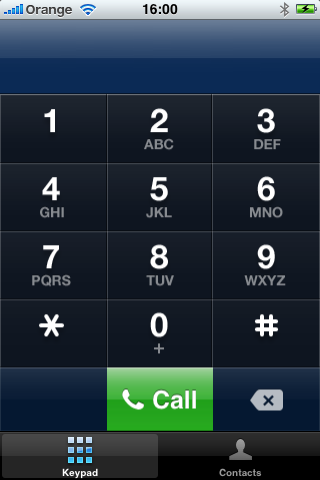
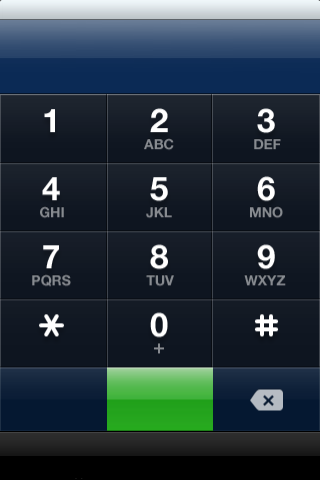
Updated Default.png to act more like the real thing.

diff --git a/README.md b/README.md
@@ -5,20 +5,21 @@ iPhone Keypad
 **Authors:** Craig Patchett, Adrian Kosmaczewski<br/>
 **Date:** February 10, 2010<br/>
 **Programming Languages:** Objective-C<br/>
-**Tools:** Xcode 4.2<br/>
-**Platforms:** Mac OS X Lion 10.7.3, iPhone OS 5.0+<br/>
-**Repository:** Github<br/>
+**Tools:** Xcode 4.2.1<br/>
+**Platforms:** Mac OS X Lion 10.7.3, iPhone OS 5+<br/>
+**Repository:** GitHub<br/>
 **License:** None, public domain, whatever you want :)
 
-This project is a significant update of Adrian Kosmaczewski's original implementation, both of which feature a keypad taken bit by bit from the one supplied in the iPhone. As Adrian put it: "Pure copyright infringement? Not really, simply another form of flattery."
+This project is a significant update of Adrian Kosmaczewski's original implementation, both of which feature a phone keypad taken bit by bit from the one supplied in the iPhone. As Adrian put it: "Pure copyright infringement? Not really, simply another form of flattery."
 
 This version has been rewritten for XCode 4.2 and iOS 5 with the following changes:
 
 * Storyboard replaces NIBs
 * Retina support added
-* Basic phone number formatting added (hardwired to U.S. at the moment, sorry)
+* Basic phone number formatting added (hardwired for the U.S. at the moment, sorry)
 * Tab bar icons replaced with Glyphish icons
 * Custom app icon
+* Migrated to ARC
 * Code streamlined
 
 I'm still going through a learning curve with iOS development, and this was done more as an exercise than anything else. As such, it has a couple of glitches at the moment, the biggest of which is with the integration of ABPeoplePickerNavigationController into the storyboard. I ended up using a wrapper controller class based on a post in StackOverflow which seems to work fine until you select a number and return to the picker. If anyone has a solution (preferably avoiding the wrapper class completely), I'd love to hear it!
